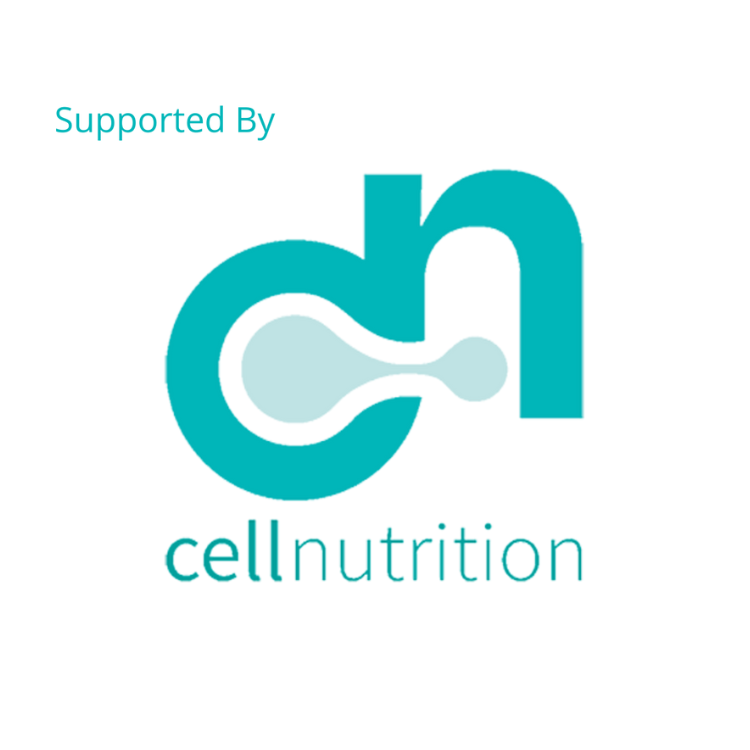
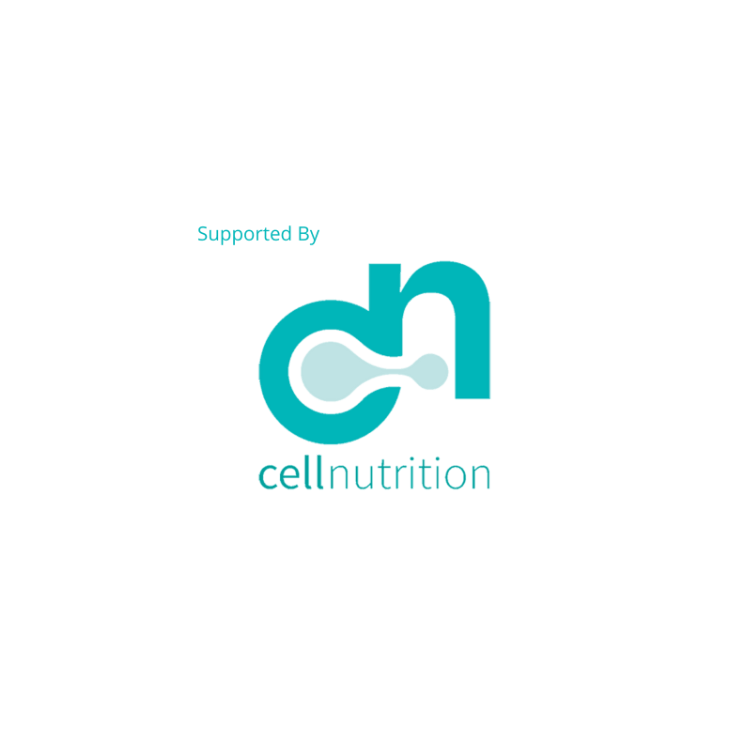
Add smaller image

Changed region(s): [[0.2147, 0.2147, 0.7973, 0.7973], [0.0613, 0.1227, 0.368, 0.184]]

diff --git a/mental-services.html b/mental-services.html
@@ -179,7 +179,7 @@
             <div class="display-table">
                 <div class="table-cell">
                     <div class="section_heading align-center mb-30">
-                        <h2>Usefull Services</h2>
+                        <h2>Useful Services</h2>
                         <p>Should you need emergency support for people in a crisis, there are
                             lots of people
                             who can help. They are listed here:</p>

diff --git a/partners.html b/partners.html
@@ -125,7 +125,7 @@
                     </div>
                     <div class="col-md-6">
                         <a target="_blank" href="https://cellnutritionlifestyle.com/"><img class="img-responsive"
-                                src="assets/img/cell-small.png" alt="cellnutrion logo">
+                                src="assets/img/cell-small.png" alt="cellnutrion logo" height="250px">
                     </div>
                 </div>
             </div>
